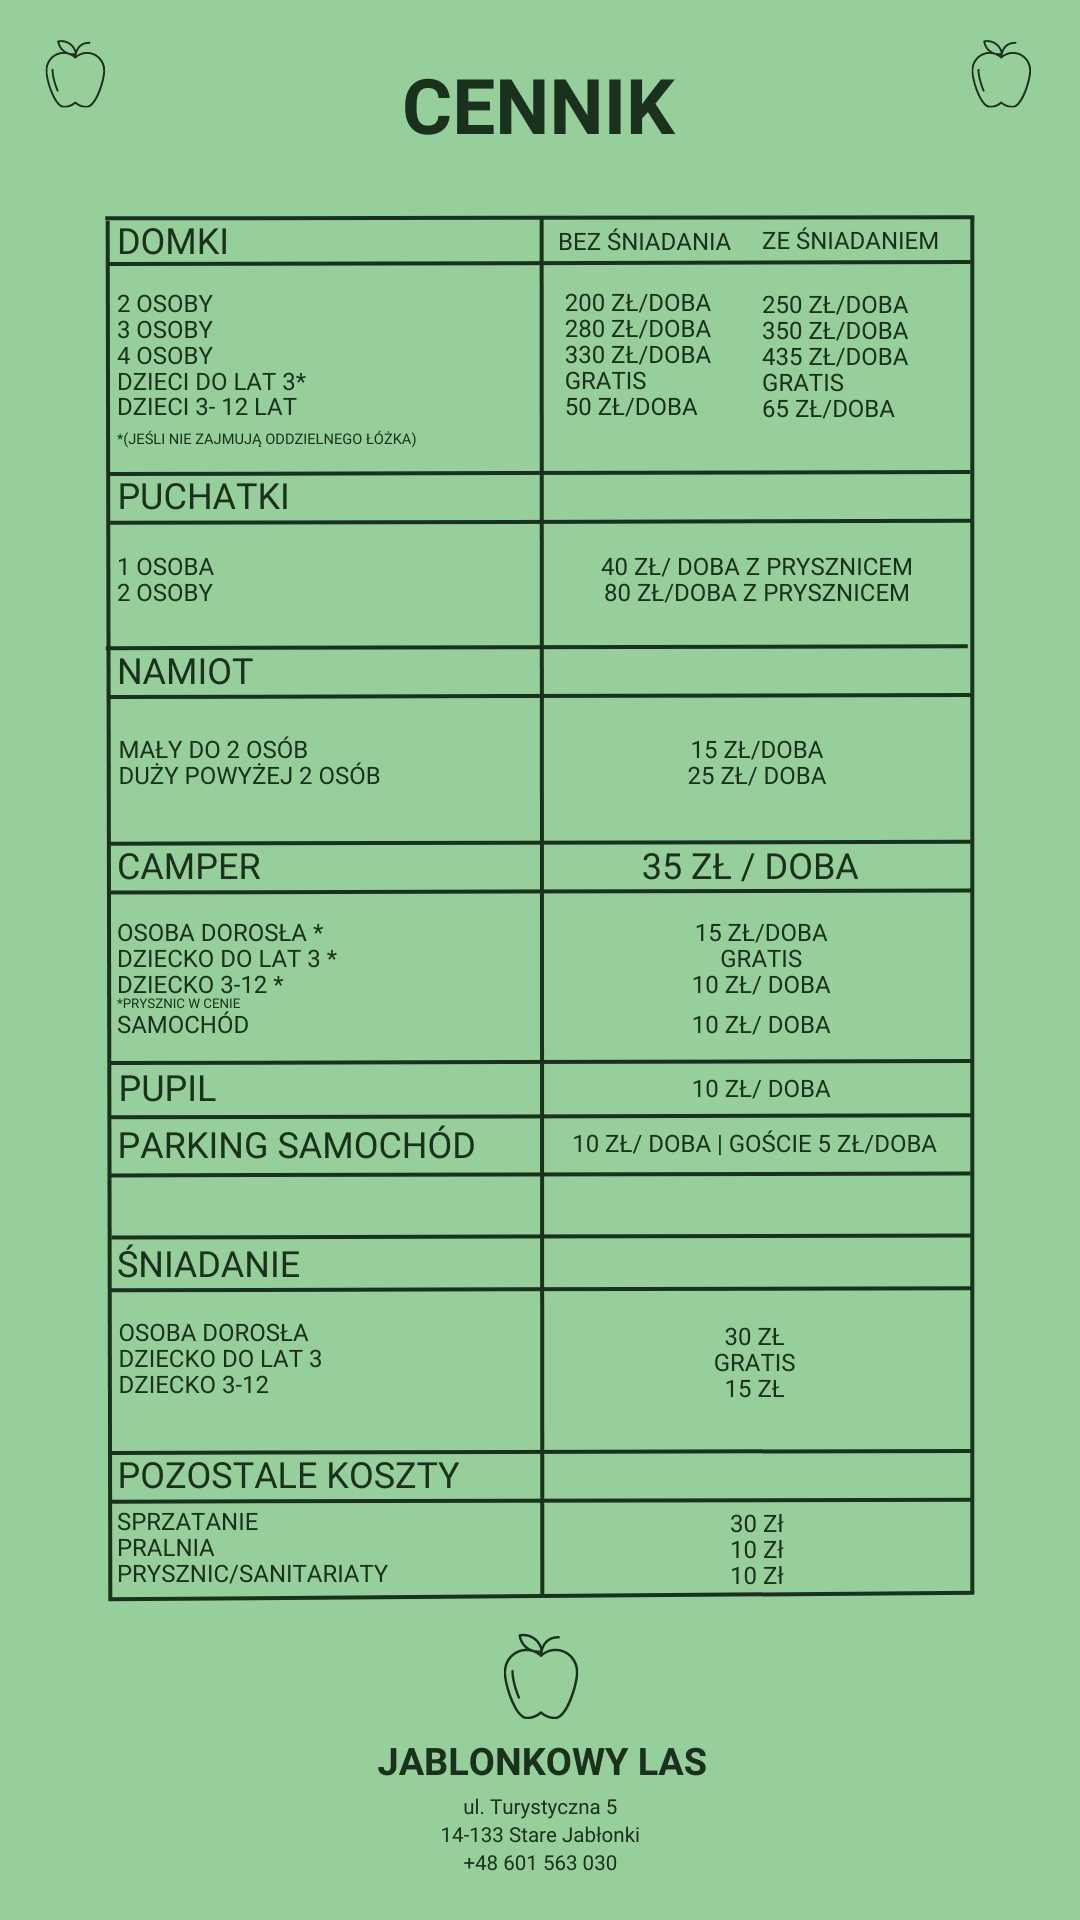
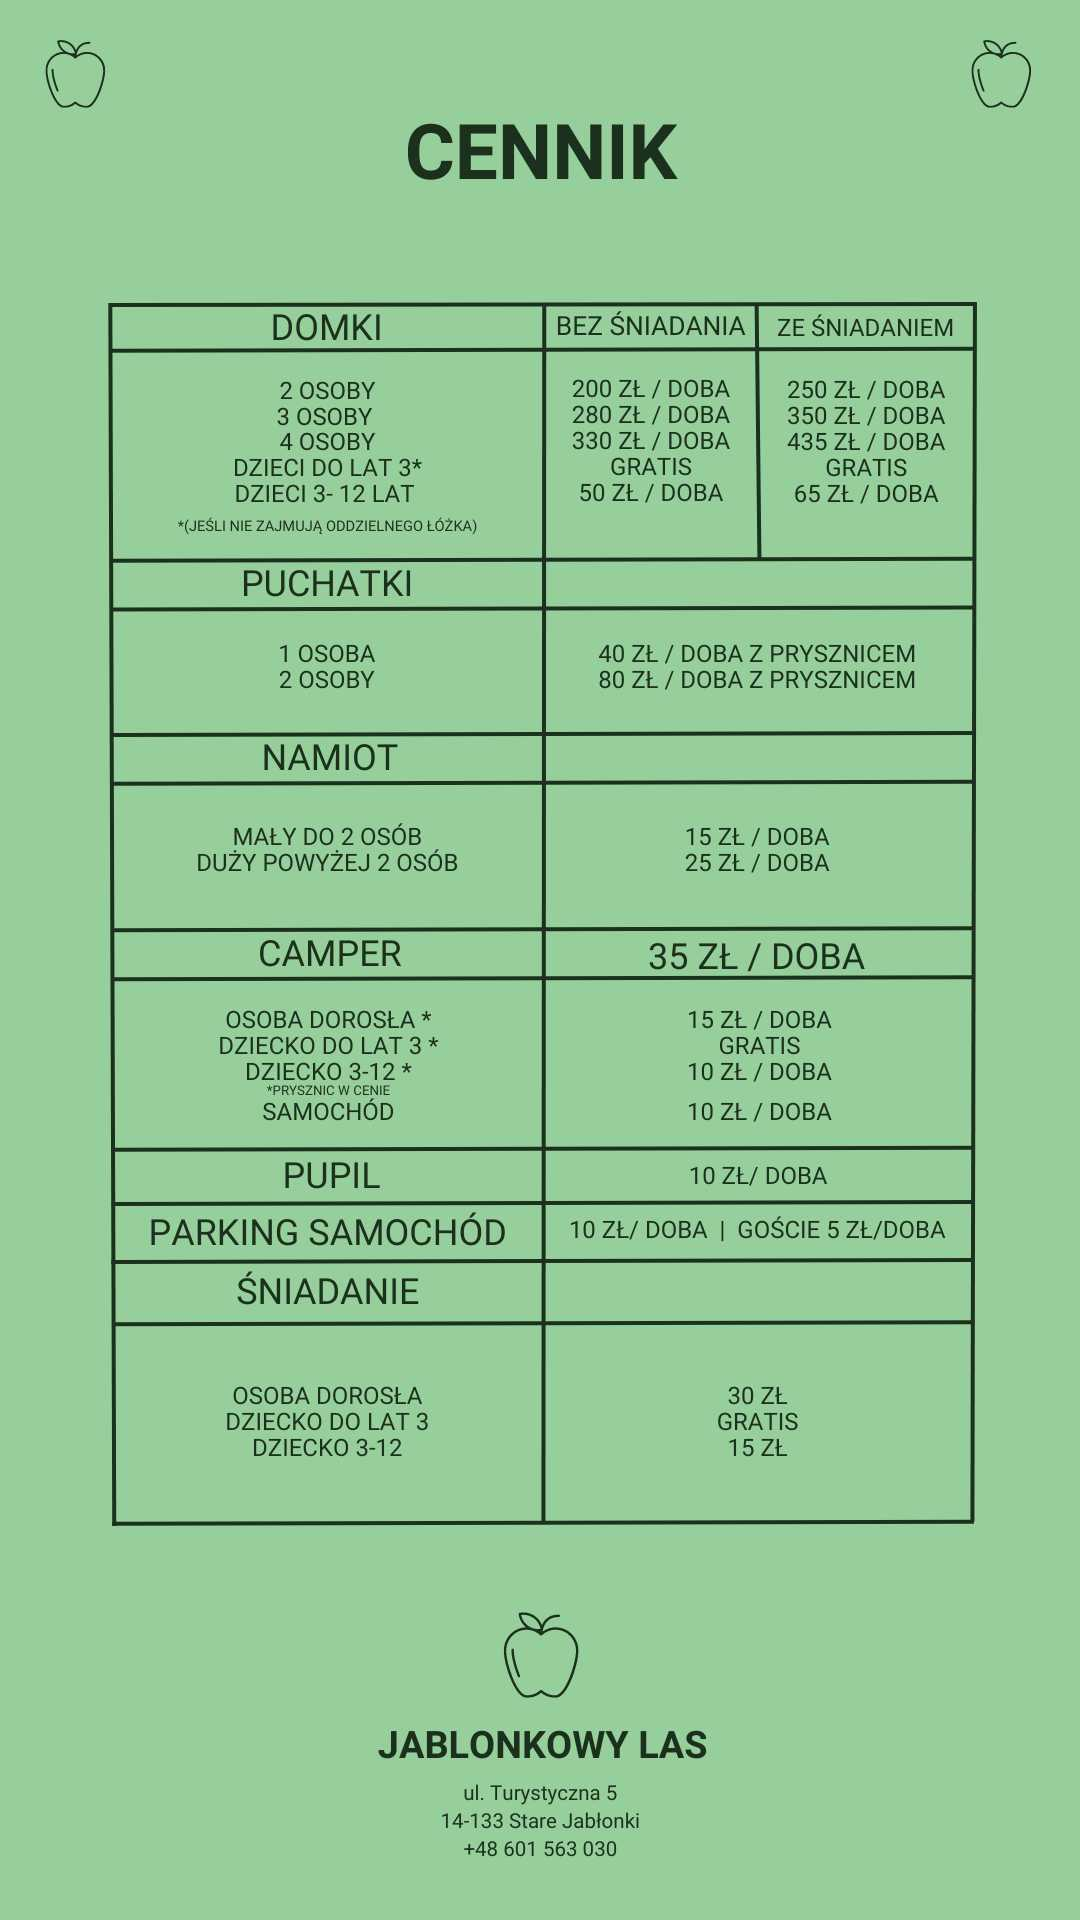
add price list EN, fix css

Changed region(s): [[0.0917, 0.0312, 0.9167, 0.9688]]

diff --git a/src/pages/houses-huts.tsx b/src/pages/houses-huts.tsx
@@ -42,7 +42,7 @@ const Houses: FC<PageProps> = () => {
               <StaticImage
                 src="../houses/cottage-outside.jpg"
                 alt="Jabłonkowy Las house on the lake"
-                className="max-h-[70vh] min-h-[50vh] lg:max-h-fit lg:max-w-[49vw] w-full"
+                className="max-h-[50vh] min-h-[50vh] lg:max-w-[49vw] w-full"
                 objectPosition={"bottom"}
               />
               <Link
@@ -94,7 +94,7 @@ const Houses: FC<PageProps> = () => {
               <StaticImage
                 src="../huts/huts4.jpg"
                 alt="Jabłonkowy Las hut on the lake"
-                className="max-h-[70vh] min-h-[50vh] lg:max-h-fit lg:max-w-[49vw] w-full lg:w-[49vw]"
+                className="max-h-[50vh] min-h-[50vh] lg:max-w-[49vw] w-full lg:w-[49vw]"
                 objectPosition={"center"}
               />
               <Link
@@ -121,7 +121,7 @@ const Houses: FC<PageProps> = () => {
               <StaticImage
                 src="../hunters-house/hunters-house1.jpg"
                 alt="Jabłonkowy Las pavilion on the lake"
-                className="max-h-[70vh] min-h-[50vh] lg:max-h-fit lg:max-w-[49vw]"
+                className="max-h-[50vh] min-h-[50vh] lg:max-w-[49vw]"
                 objectPosition={"center"}
               />
               <Link
@@ -170,7 +170,7 @@ const Houses: FC<PageProps> = () => {
               <StaticImage
                 src="../camping/camping2.jpg"
                 alt="Jabłonkowy Las hut on the lake"
-                className="max-h-[70vh] min-h-[50vh] lg:max-h-fit lg:max-w-[49vw] w-full lg:w-[49vw]"
+                className="max-h-[50vh] min-h-[50vh] lg:max-w-[49vw] w-full lg:w-[49vw]"
                 objectPosition={"center"}
               />
               <Link
@@ -182,7 +182,7 @@ const Houses: FC<PageProps> = () => {
                 <Button className="group absolute inset-x-0 bottom-[6%] w-max m-auto rounded">
                   <p className=" text-font m-1 font-bold flex items-center">
                     <Camera className="w-6 h-6 mr-3" />
-                    <Trans i18nKey="section2_title" />
+                    <Trans i18nKey="section4_title" />
                     <ChevronRight className="w-5 h-5 ml-2 group-hover:translate-x-1 transition-all" />
                   </p>
                 </Button>

diff --git a/src/pages/prices.tsx b/src/pages/prices.tsx
@@ -1,6 +1,6 @@
 import React, { FC, useEffect, useState } from "react";
 import { HeadFC, PageProps, graphql } from "gatsby";
-import { Trans, Link } from "gatsby-plugin-react-i18next";
+import { Trans, Link, useTranslation } from "gatsby-plugin-react-i18next";
 import { CalendarCheck } from "lucide-react";
 
 import Layout from "../components/layout/Layout";
@@ -13,8 +13,9 @@ import {
 } from "../utils/scrollToPosition";
 
 const Prices: FC<PageProps> = ({ data }: any) => {
-  const image = data.allFile.edges[0].node;
+  const { i18n } = useTranslation();
 
+  const image = data.allFile.edges[0].node;
   const [prevPath, setPrevPath] = useState("");
 
   useEffect(() => {
@@ -75,29 +76,23 @@ const Prices: FC<PageProps> = ({ data }: any) => {
                 state={{ prevPath }}
                 onClick={saveScrollPosition}
               >
-                <StaticImage
-                  src="../images/cennik.jpg"
-                  alt="Neighborhood"
-                  className="min-h-[35vh] max-h-[60vh]"
-                  objectFit="contain"
-                />
+                {i18n.language === "pl" ? (
+                  <StaticImage
+                    src="../images/cennik.jpg"
+                    alt="Neighborhood"
+                    className="min-h-[35vh] max-h-[60vh]"
+                    objectFit="contain"
+                  />
+                ) : (
+                  <StaticImage
+                    src="../images/price-list.jpg"
+                    alt="Neighborhood"
+                    className="min-h-[35vh] max-h-[60vh]"
+                    objectFit="contain"
+                  />
+                )}
               </Link>
             </div>
-            {/* <p className="my-8">
-              <Trans i18nKey="section6" />
-            </p>
-            <p>
-              <Trans i18nKey="section7" />
-            </p>
-            <p>
-              <Trans i18nKey="section8" />
-            </p>
-            <p>
-              <Trans i18nKey="section9" />
-            </p>
-            <p className="my-8">
-              <Trans i18nKey="section10" />
-            </p> */}
           </div>
           <div className="self-center flex my-16">
             <StaticImage

diff --git a/gatsby-browser.js b/gatsby-browser.js
@@ -3,7 +3,6 @@ import "./src/styles/global.css";
 import React from "react";
 import RootElement from "./src/components/RootElement";
 
-
 export const wrapRootElement = ({ element }) => (
   <RootElement>{element}</RootElement>
 );
@@ -17,11 +16,16 @@ export const onPrefetchPathname = ({ loadPage }) => {
     });
   }
 };
-export const onRouteUpdate = ({ location }) => {
+export const onRouteUpdate = ({ location, prevLocation }) => {
+  // Remove the saved scroll position if the previous page was a gallery page
+  // prevLocation && console.log("prevLocation.pathname", prevLocation.pathname );
+  // if (!location.pathname.includes("/gallery/") || (prevLocation.pathname.includes("/gallery/") && !location.pathname.includes("/gallery/"))) {
+  //   localStorage.removeItem("savedScrollPosition");
+  // }
   // Check if the URL ends with .com
-  if (location.pathname.endsWith('.com')) {
+  if (location.pathname.endsWith(".com")) {
     // Redirect to the same URL with .pl
-    const newUrl = location.pathname.replace(/\.com$/, '.pl');
+    const newUrl = location.pathname.replace(/\.com$/, ".pl");
     window.location.replace(newUrl);
   }
 };

diff --git a/gatsby-config.ts b/gatsby-config.ts
@@ -109,6 +109,21 @@ const config: GatsbyConfig = {
       },
     },
     {
+      resolve: `gatsby-plugin-manifest`,
+      options: {
+        name: "Jabłonkowy Las",
+        short_name: "Jabłonkowy Las",
+        start_url: "/",
+        background_color: "#f3fcf3",
+        theme_color: "#dff3df",
+        icon: "src/images/favicon-apple.png", // This path is relative to the root of the site.
+        // An optional attribute which provides support for CORS check.
+        // If you do not provide a crossOrigin option, it will skip CORS for manifest.
+        // Any invalid keyword or empty string defaults to `anonymous`
+        crossOrigin: `use-credentials`,
+      },
+    },
+    {
       resolve: "gatsby-plugin-react-i18next",
       options: {
         languages: ["en", "pl"],

diff --git a/src/templates/ImageModal.tsx b/src/templates/ImageModal.tsx
@@ -1,5 +1,5 @@
 import React, { useEffect, useState } from "react";
-import { navigate, PageRenderer, Link } from "gatsby";
+import { navigate, PageRenderer, Link, graphql } from "gatsby";
 import { GatsbyImage } from "gatsby-plugin-image";
 import Modal from "react-modal";
 
@@ -85,3 +85,19 @@ const ImageModal = ({ pageContext, location }: any) => {
 };
 
 export default ImageModal;
+
+export const query = graphql`
+  query ($language: String!) {
+    locales: allLocale(
+      filter: { ns: { in: ["index"] }, language: { eq: $language } }
+    ) {
+      edges {
+        node {
+          ns
+          data
+          language
+        }
+      }
+    }
+  }
+`;

diff --git a/src/components/LangSwitcher.tsx b/src/components/LangSwitcher.tsx
@@ -27,7 +27,7 @@ const LangSwitcher = () => {
             <Link
               to={originalPath}
               language={lng}
-              onClick={saveScrollPosition}              className={`inline-flex items-center justify-center w-4 h-4 sm:h-6 sm:w-6 ${
+              onClick={saveScrollPosition}              className={`inline-flex items-center justify-center w-5 h-5 md:h-6 md:w-6 ${
                 i18n.resolvedLanguage === lng ? "underline" : "none"} `}
             >
               <li className="p-4 uppercase text-sm">

diff --git a/src/pages/index.tsx b/src/pages/index.tsx
@@ -12,7 +12,7 @@ const IndexPage: React.FC<PageProps> = () => {
   return (
     <Layout>
       <main>
-        <div className="relative flex items-center justify-center  mt-8">
+        <div className="relative flex items-center justify-center mt-8 md:mt-0">
           <h1 className="absolute z-10 text-5xl md:text-6xl lg:text-8xl font-bold text-background mb-[15%]">
             <Trans i18nKey="title" />
           </h1>

diff --git a/src/styles/global.css b/src/styles/global.css
@@ -83,7 +83,7 @@ body {
 #menu {
   left: -100%;
   position: fixed;
-  z-index: 50;
+  z-index: 60;
 }
 .openMenu {
   animation-name: menu-in, reveals;
